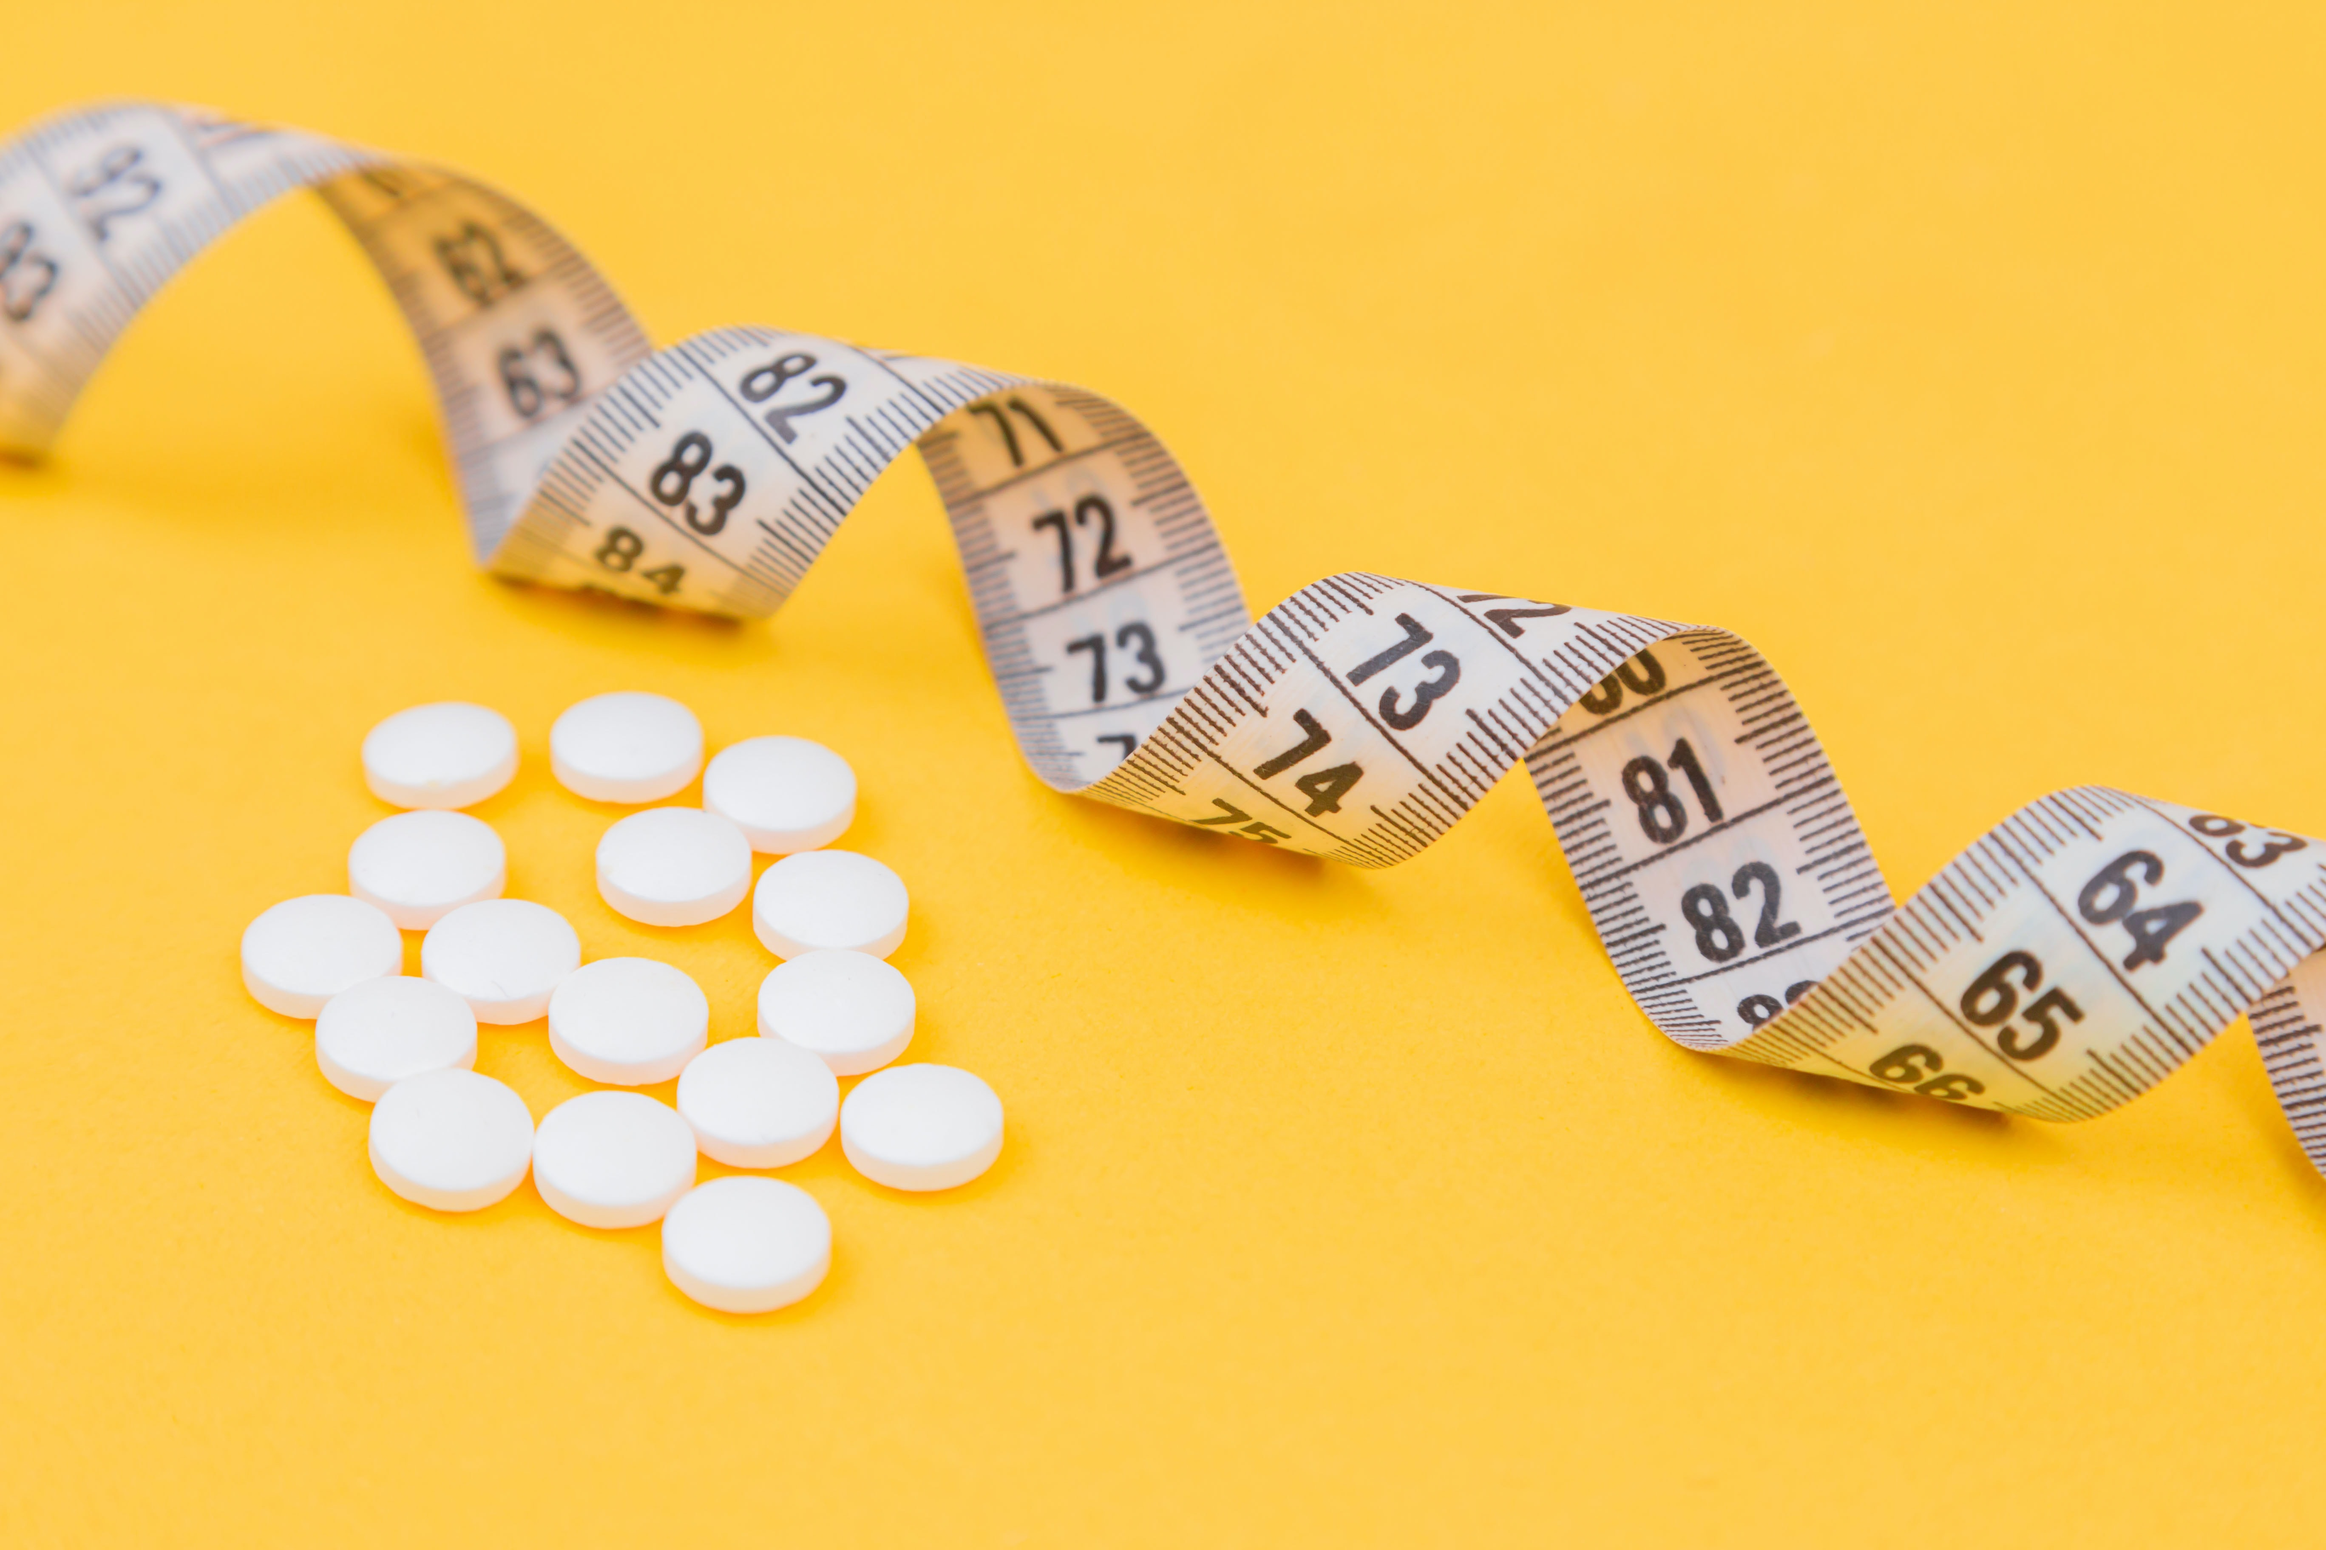
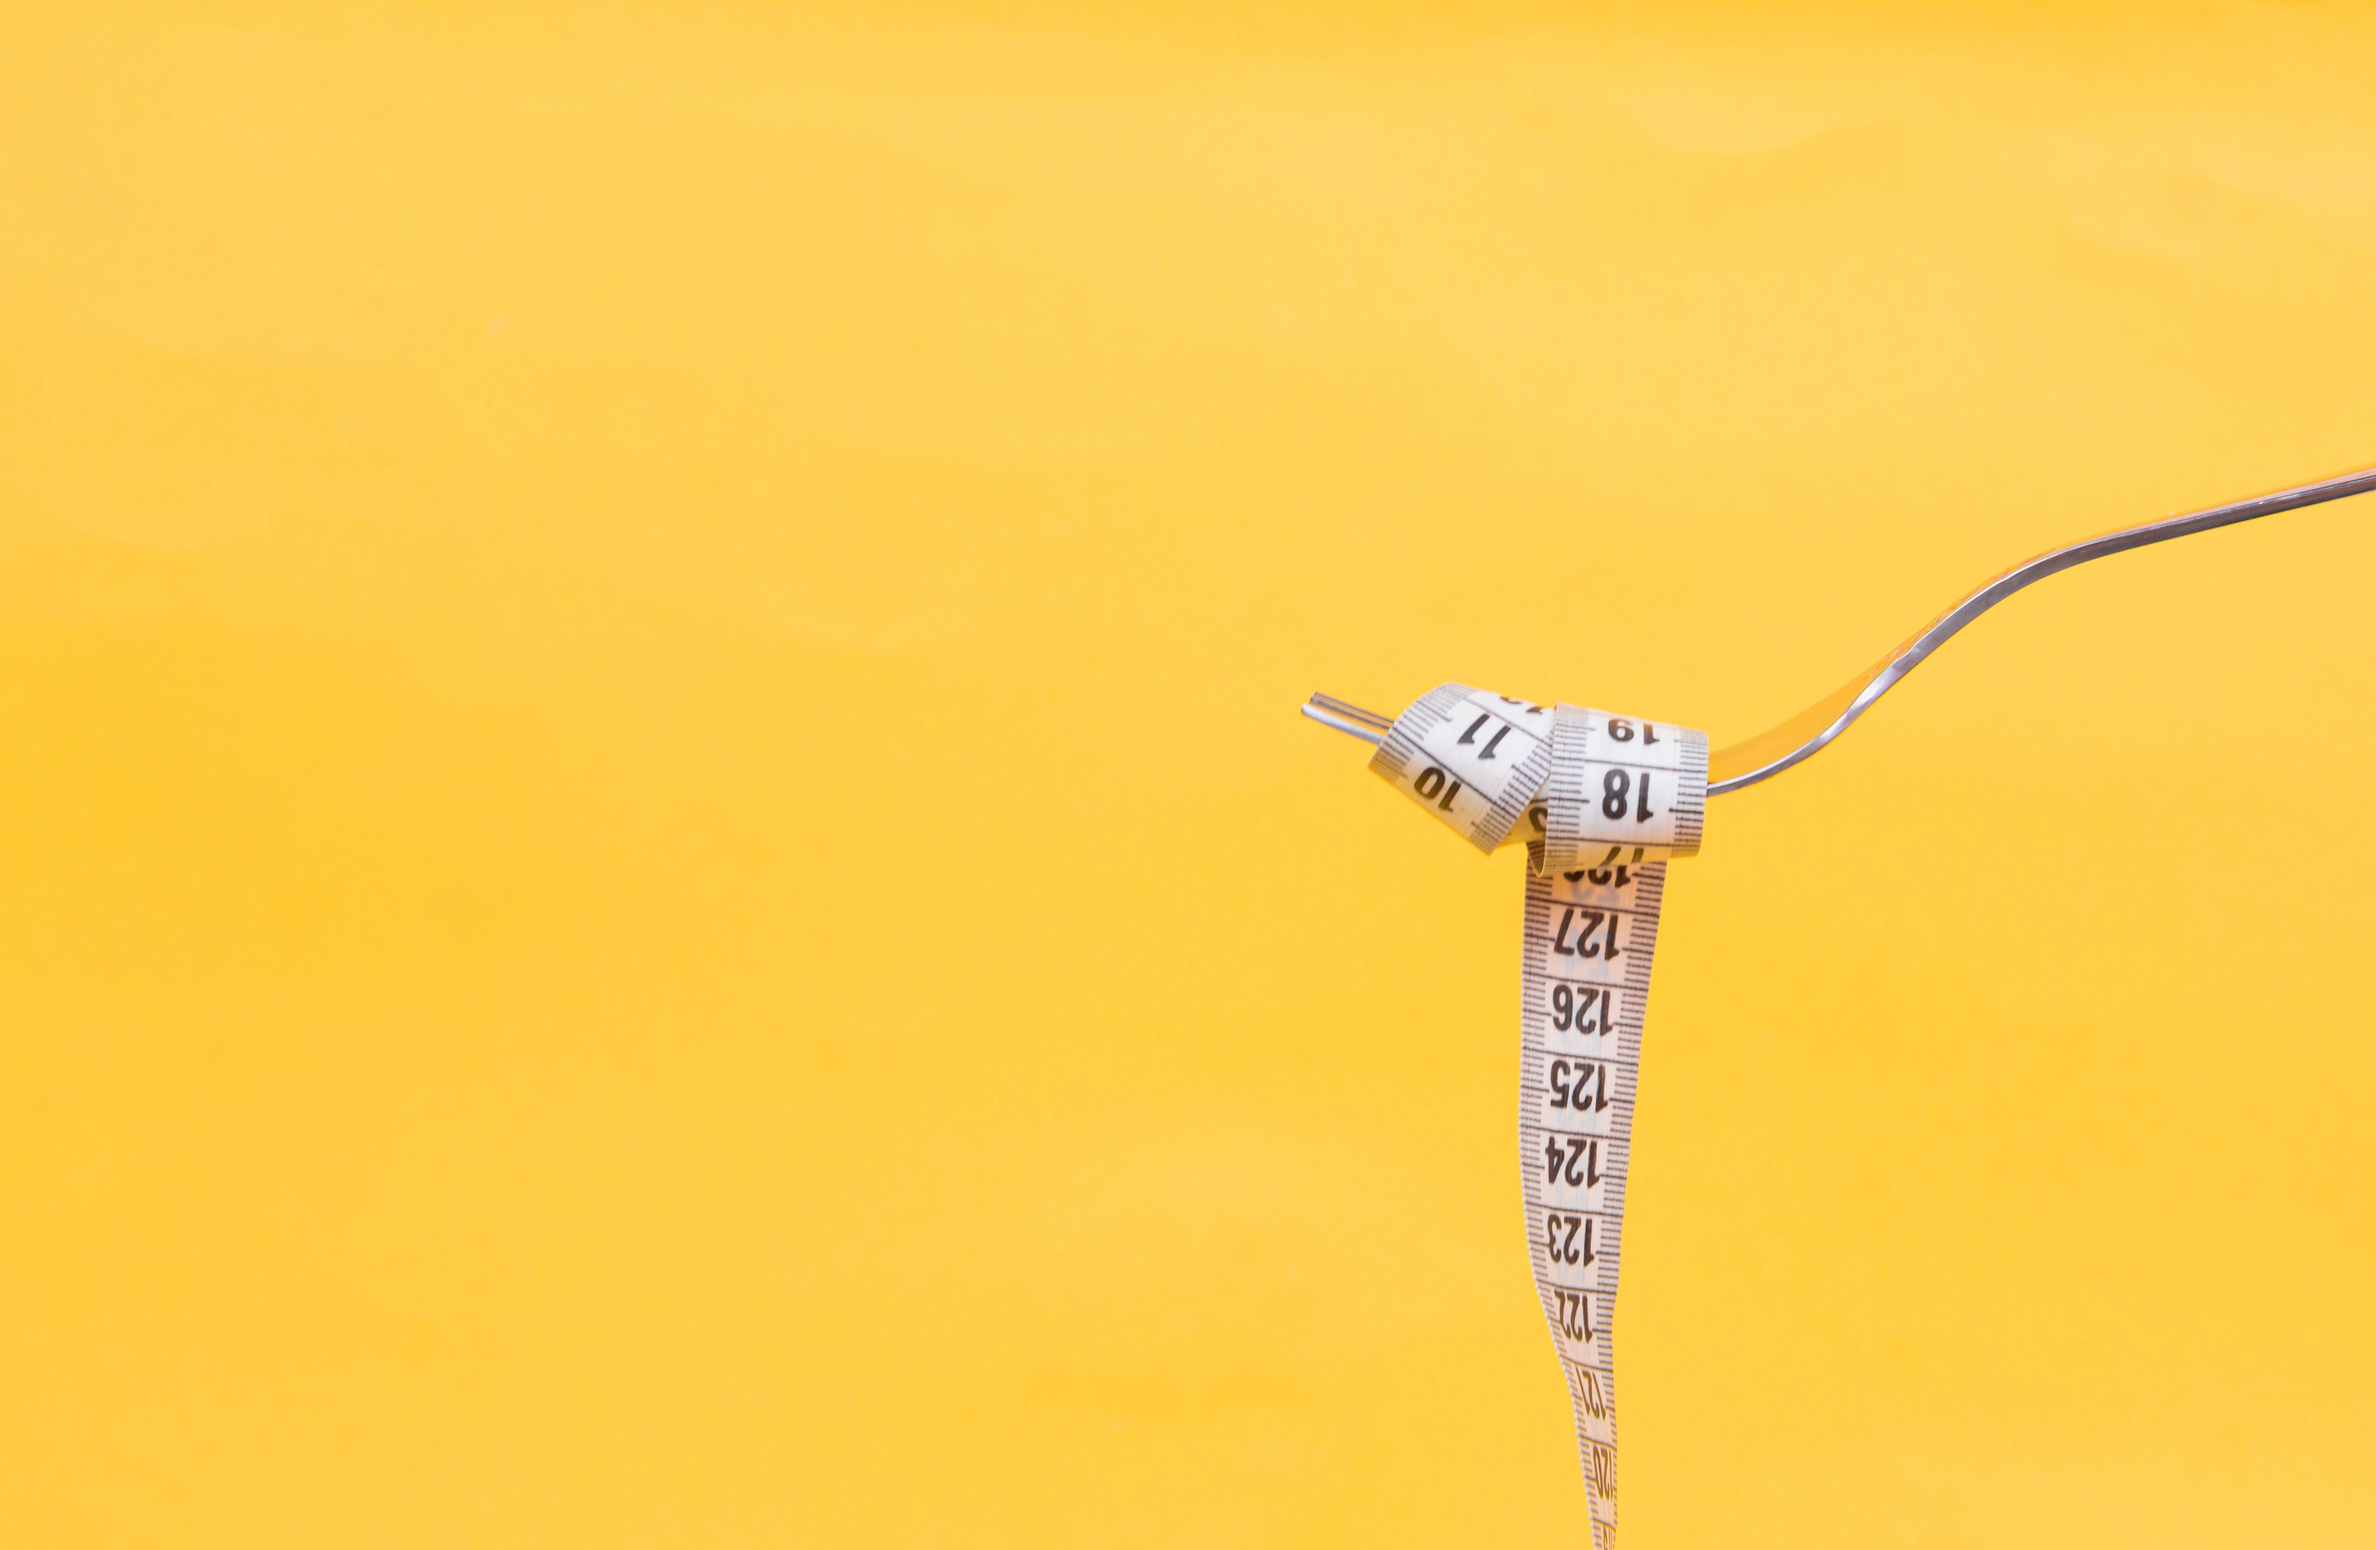
加封面圖

diff --git a/css/style_p3.css b/css/style_p3.css
@@ -22,17 +22,26 @@ html {
 }
 
 /*topic*/
-#myth {
-	font-family: "Helvetica";
-	font-size: 56px;
-	padding: 0 0;
-	text-align: center;
+.background {
 	background-color: #F7F5F3;
+	padding-bottom: 100px;
+}
+
+#myth {
+	font-size: 56px;
+	padding-bottom: 0px;
+	text-align: center;
 	margin-bottom: 0px;
 }
 
-#myth span {
-	font-family: "Georgia";
+#myth img {
+	float: right;
+	padding-top: 40px;
+	background-color: #F7F5F3;
+}
+
+#leftcover img {
+	position: absolute;
 }
 
 .quotebefore:before {
@@ -43,13 +52,12 @@ html {
     font-size: 200%;
  }
 
- .quoteafter:after {
-    content: " „ ";
-    color: #bd9f77;
-    left: -0.5em;
-    top: -0.1em;
-    font-size: 200%;
- }
+#cover {
+	font-family: "Georgia";
+	position: absolute;
+	padding-top: 135px;
+	padding-left: 50px;
+}
 
 /*content*/
 #content {

diff --git a/index.html b/index.html
@@ -36,17 +36,18 @@
 
 	<!--topic-->
 	<div class="row">
-		<div class="col-md-12">
-			<p id="myth">
-				<br>
-				<br>
-				<span class="quotebefore" style="font-size: 48px">the </span>
-				<span style="font-size: 88px">MYTHs</span>
-				<span class="quoteafter" style="font-size: 48px">of losing weight</span>
-				<br>
-				<br>
-				<br>
-			</p>
+		<div class="col-md-12 background">
+			<br>
+			<br>
+			<br>
+			<div id="myth">
+				<p id="cover">
+					<span class="quotebefore" style="font-size: 48px">the </span>
+					<span style="font-size: 88px">MYTHs</span>
+					<span style="font-size: 48px">of losing weight</span>
+				</p>
+				<img src="img/med.jpg" width="610px" height="410px">
+			</div>
 		</div>
 	</div>
 
